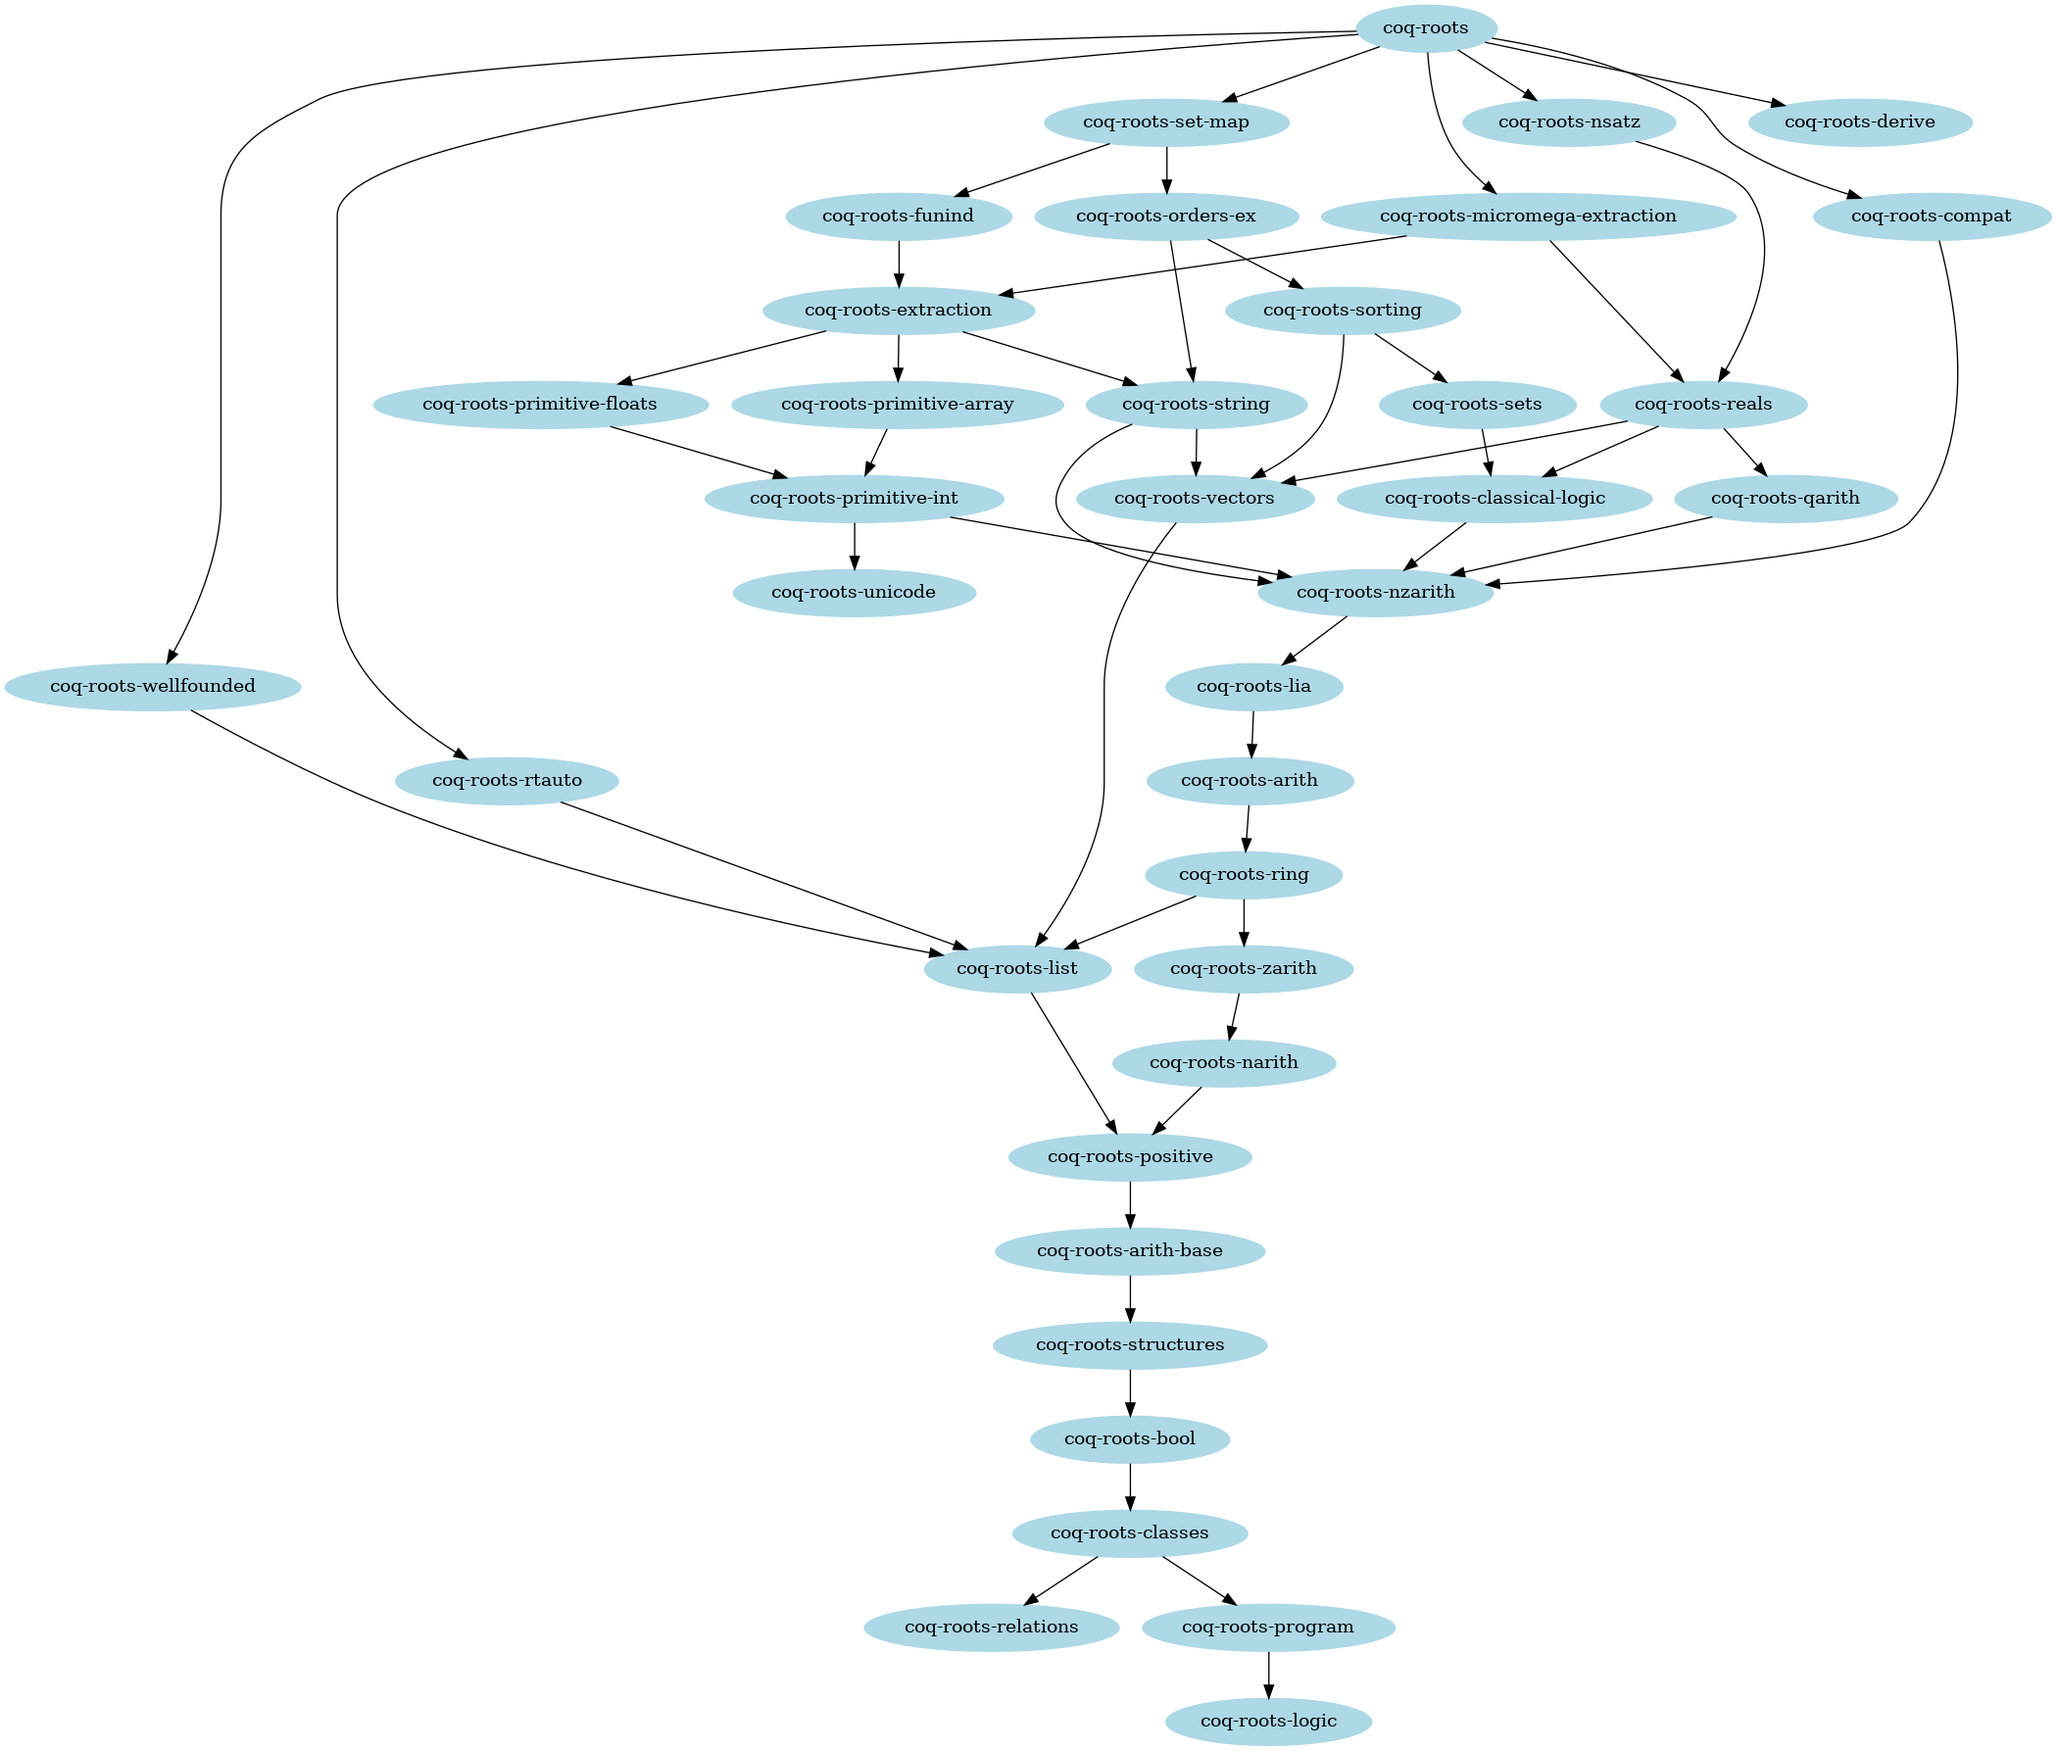
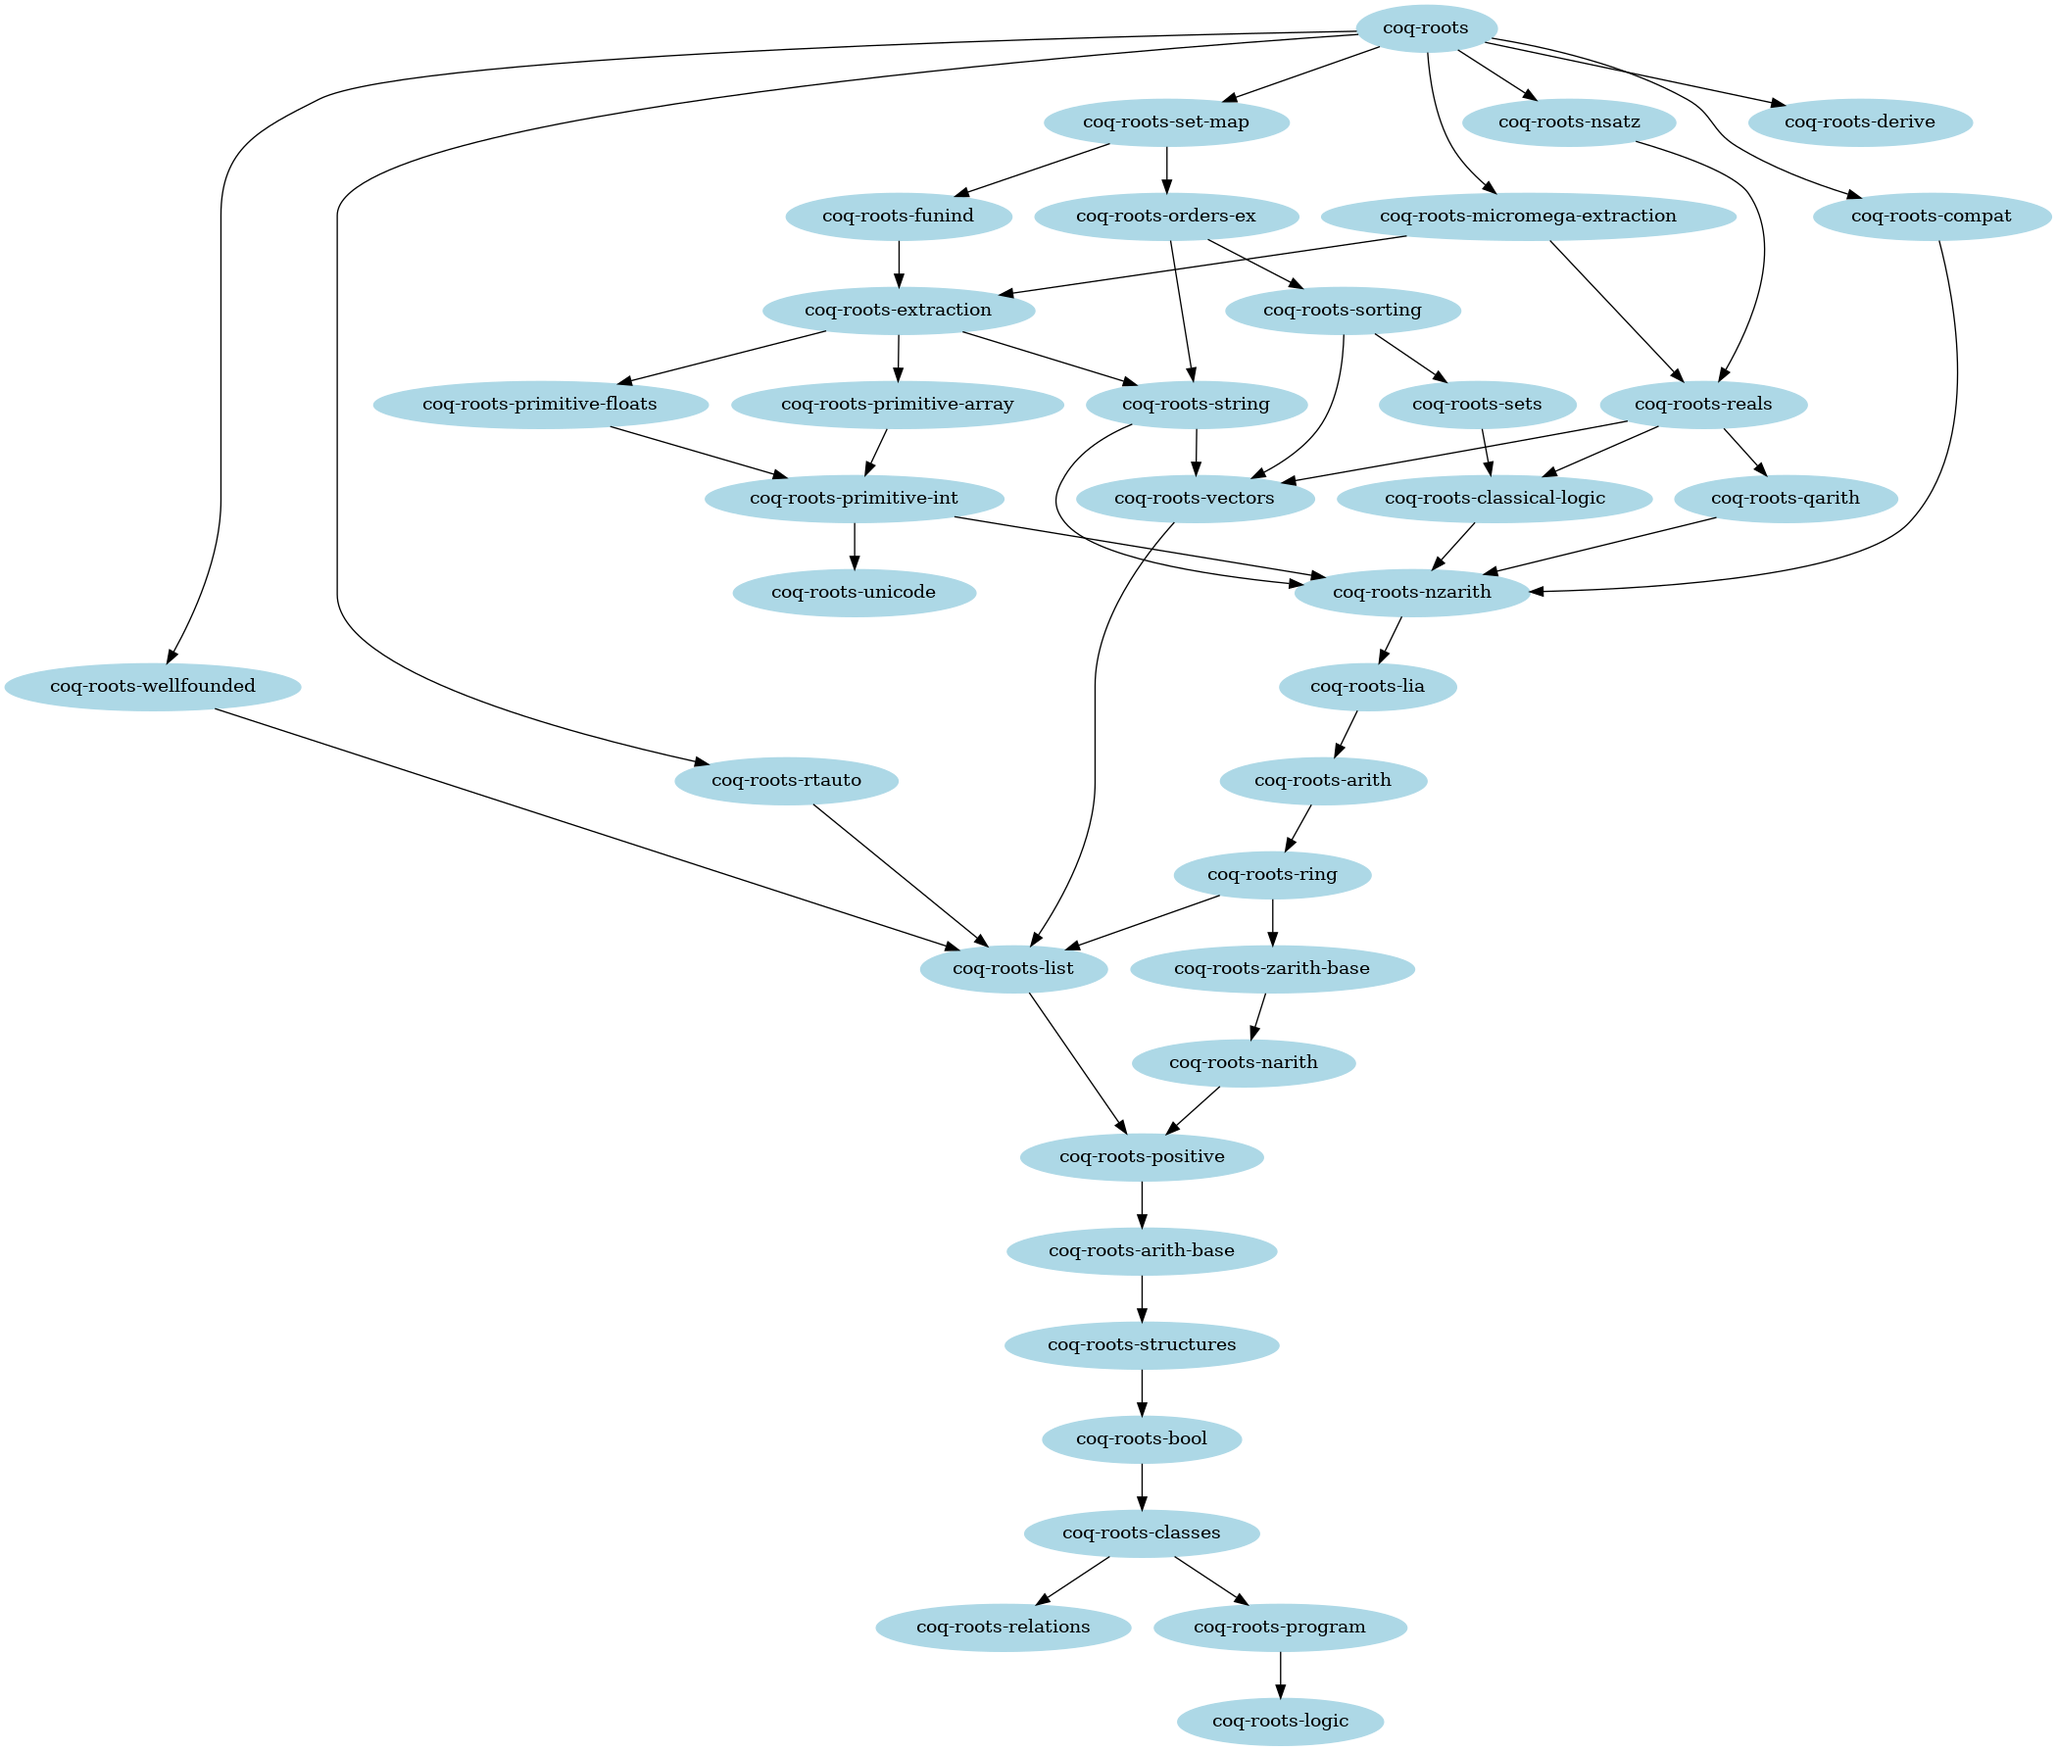
Rename zarith to zarith-base

diff --git a/README.md b/README.md
@@ -35,7 +35,7 @@ install-package` to install it. `package` being one of
 * micromega-extraction
 * nsatz
 * narith
-* zarith
+* zarith-base
 * ring
 * arith
 * lia
